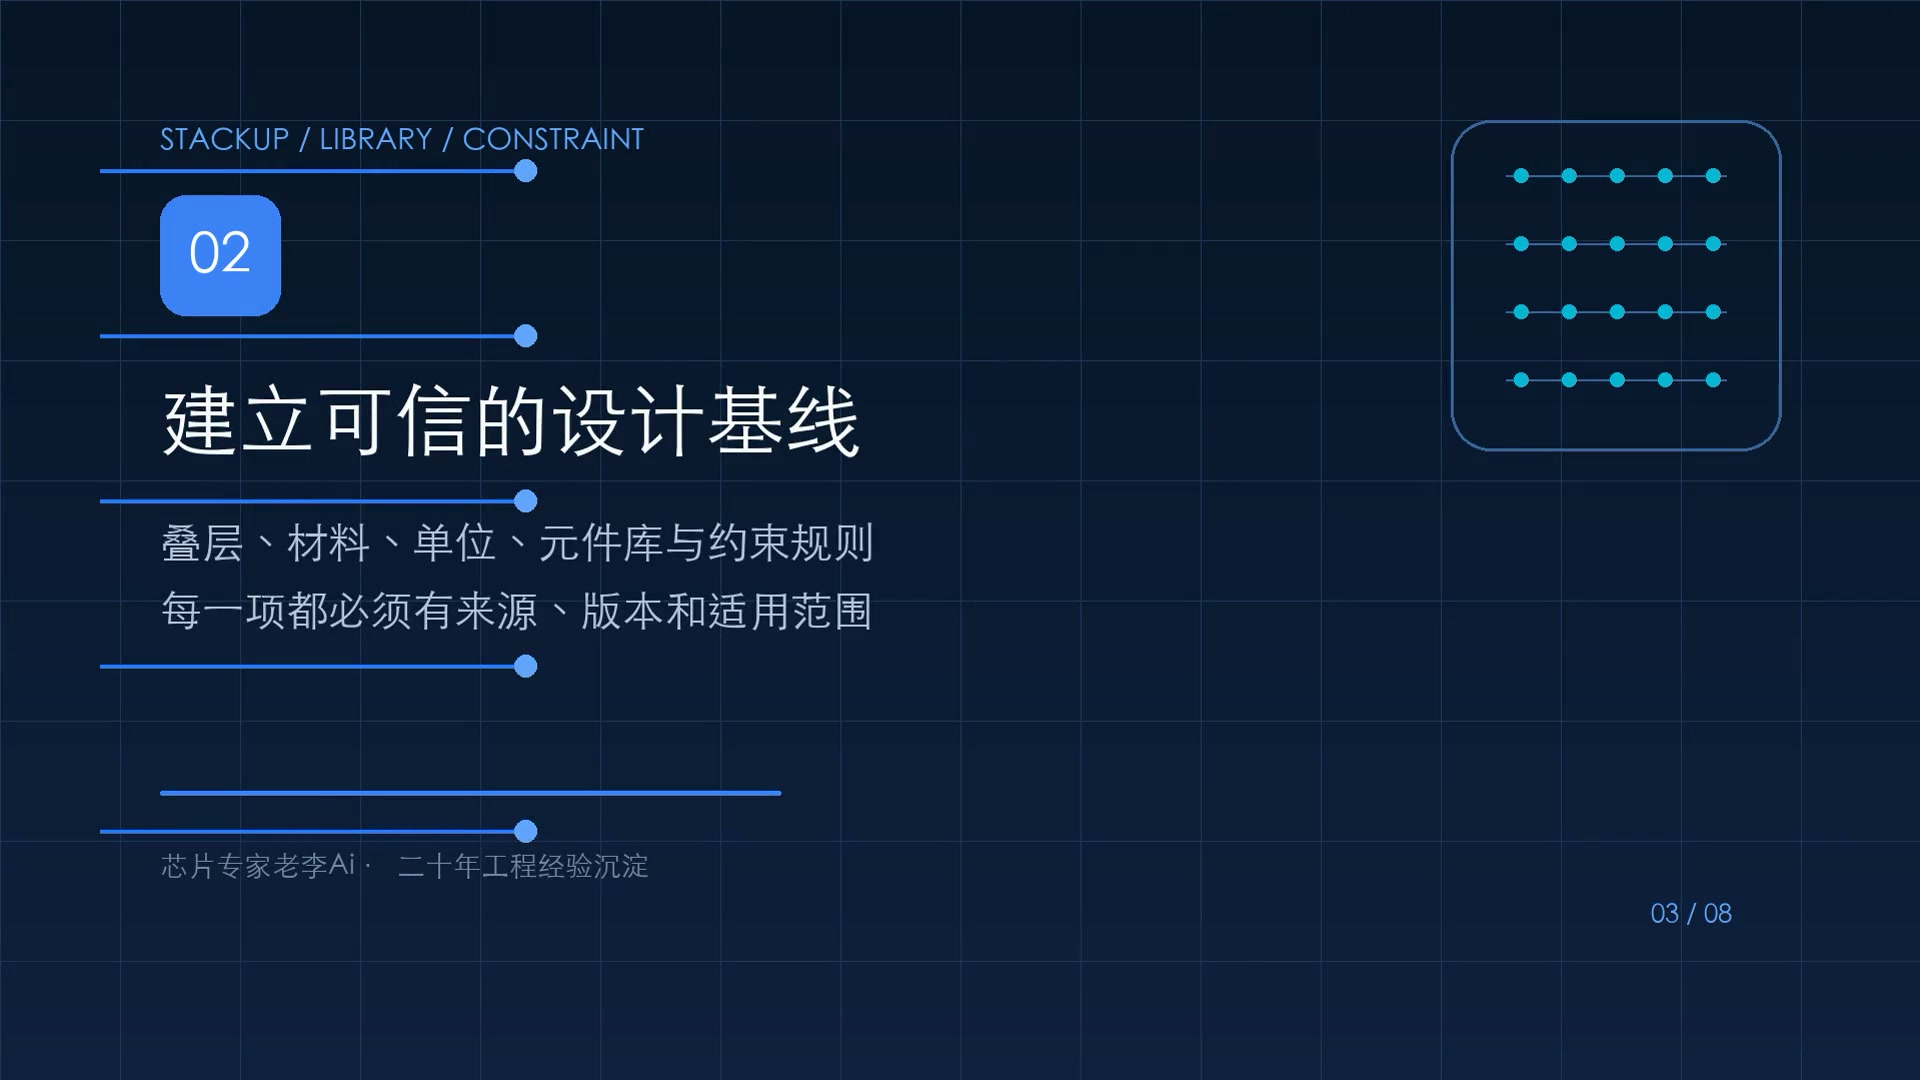
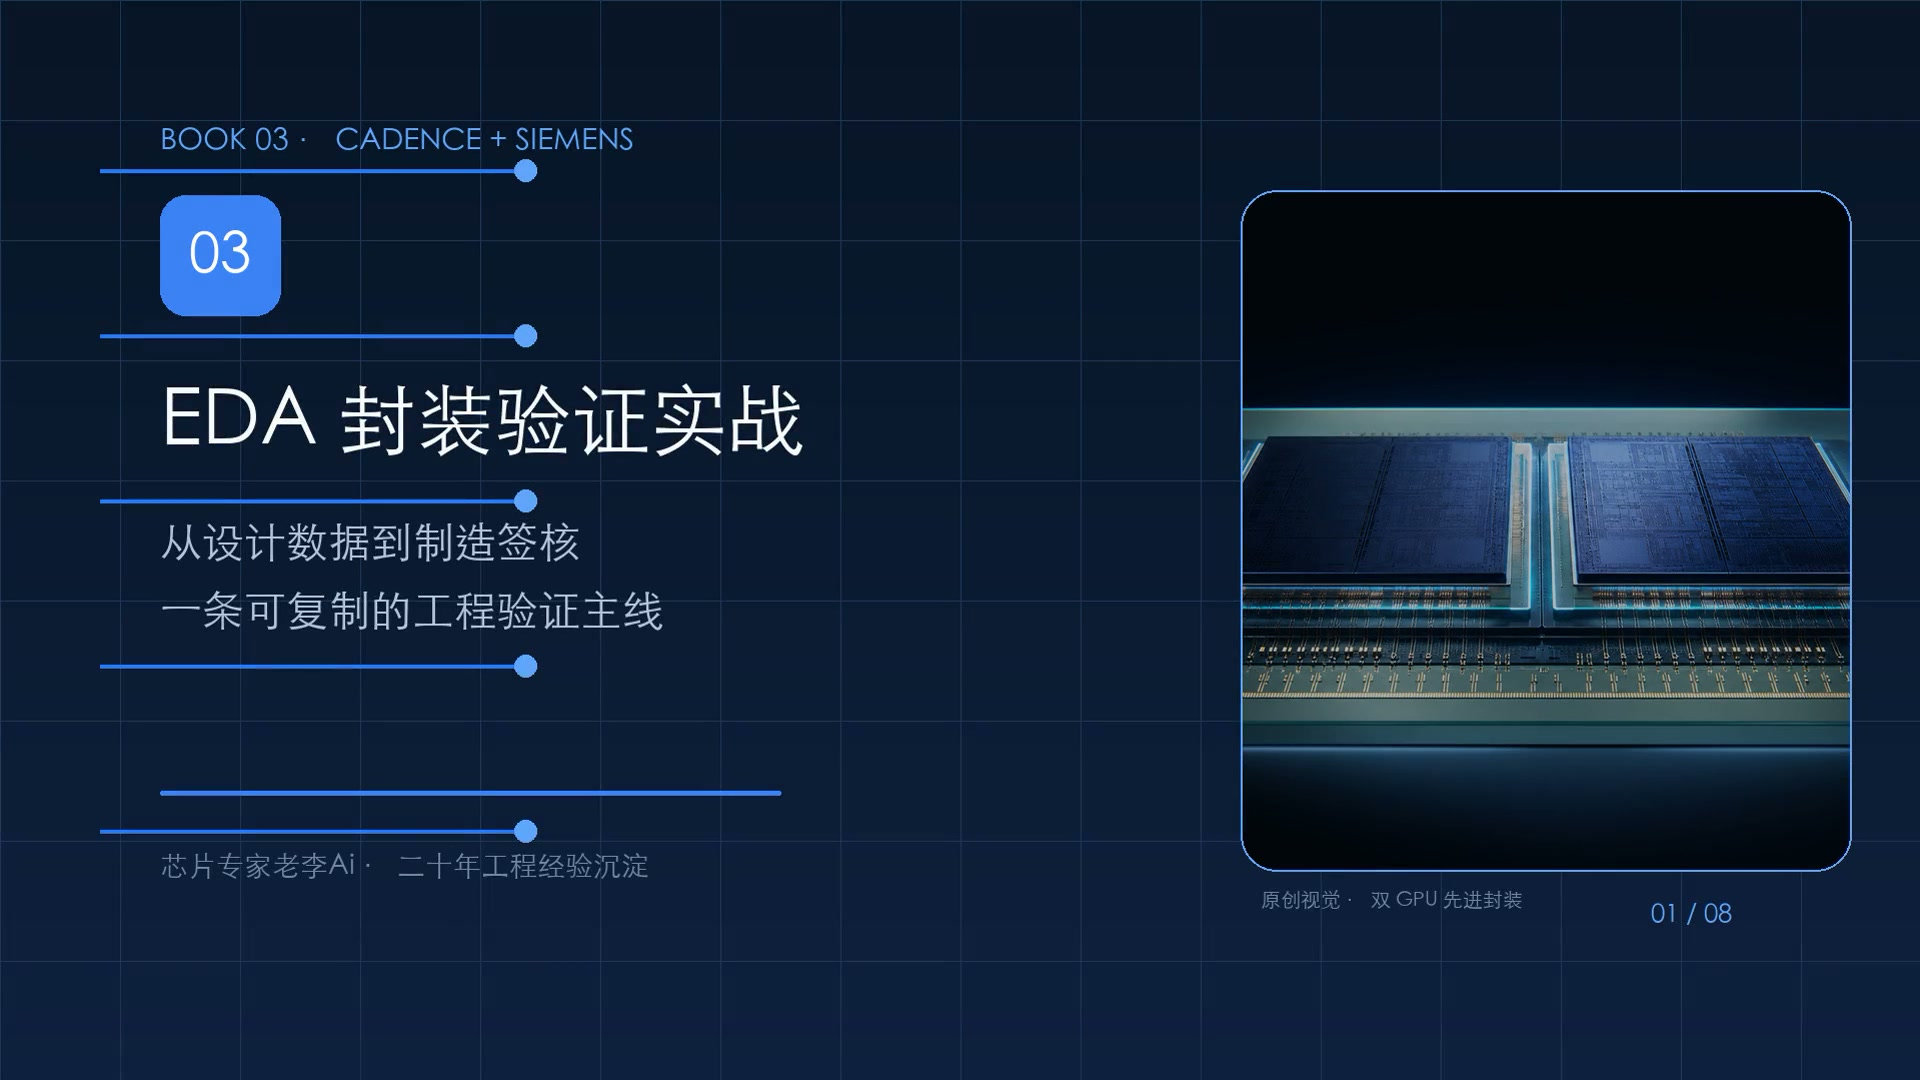
replace reference screenshots with original video art

diff --git a/scripts/build_eda_video.py b/scripts/build_eda_video.py
@@ -12,10 +12,13 @@ OUTPUT = ROOT / "videos" / "eda-book-intro.mp4"
 FONT = "/System/Library/Fonts/STHeiti Light.ttc"
 W, H = 1920, 1080
 PHOTO_MAP = {
-    1: ("silicon-wafers.jpg", "Silicon wafers · ArticCynda · CC0"),
-    3: ("wire-bonding.jpg", "IC wire bonding · Mister rf · CC BY-SA 4.0"),
-    4: ("wire-bonding.jpg", "IC wire bonding · Mister rf · CC BY-SA 4.0"),
-    6: ("macro-pcb.jpg", "Macro circuit board · Ingo Dierking · CC BY-SA 4.0"),
+    0: (ROOT / "images/video-generated/dual-gpu-package.png", "原创视觉 · 双 GPU 先进封装", "crop"),
+    1: (ROOT / "images/video-generated/application-ecosystem.png", "原创视觉 · 应用与制造路径", "crop"),
+    2: (ROOT / "images/video-generated/packaging-roadmap.png", "原创视觉 · 先进封装技术路线", "crop"),
+    3: (ROOT / "images/video-generated/chiplet-bonding.png", "原创视觉 · 芯粒键合与互连", "crop"),
+    4: (ROOT / "images/video-generated/chiplet-bonding.png", "原创视觉 · 微凸点与连通验证", "crop"),
+    5: (ROOT / "images/video-generated/hbm-stacks.png", "原创视觉 · HBM 三维堆叠", "crop"),
+    6: (BUILD / "assets/macro-pcb.jpg", "Macro circuit board · Ingo Dierking · CC BY-SA 4.0", "crop"),
 }
 
 SLIDES = [
@@ -63,14 +66,20 @@ def render_slide(index, data):
         draw.line((100, cy, 530, cy), fill=(38, 122, 246), width=4)
         draw.ellipse((514, cy - 11, 536, cy + 11), fill=(96, 165, 250))
     photo_info = PHOTO_MAP.get(index)
-    if photo_info and (BUILD / "assets" / photo_info[0]).exists():
-        source = Image.open(BUILD / "assets" / photo_info[0]).convert("RGB")
+    if photo_info and photo_info[0].exists():
+        source = Image.open(photo_info[0]).convert("RGB")
         target_w, target_h = 610, 680
-        scale = max(target_w / source.width, target_h / source.height)
-        source = source.resize((math.ceil(source.width * scale), math.ceil(source.height * scale)), Image.Resampling.LANCZOS)
-        left = (source.width - target_w) // 2
-        top = (source.height - target_h) // 2
-        source = source.crop((left, top, left + target_w, top + target_h))
+        if photo_info[2] == "contain":
+            scale = min(target_w / source.width, target_h / source.height)
+            resized = source.resize((math.ceil(source.width * scale), math.ceil(source.height * scale)), Image.Resampling.LANCZOS)
+            source = Image.new("RGB", (target_w, target_h), (3, 12, 24))
+            source.paste(resized, ((target_w - resized.width) // 2, (target_h - resized.height) // 2))
+        else:
+            scale = max(target_w / source.width, target_h / source.height)
+            source = source.resize((math.ceil(source.width * scale), math.ceil(source.height * scale)), Image.Resampling.LANCZOS)
+            left = (source.width - target_w) // 2
+            top = (source.height - target_h) // 2
+            source = source.crop((left, top, left + target_w, top + target_h))
         dark = Image.new("RGB", source.size, (4, 18, 35))
         source = Image.blend(source, dark, .30)
         mask = Image.new("L", source.size, 0)
@@ -123,7 +132,7 @@ def main():
 
     command = ["ffmpeg", "-y"]
     for index in range(len(SLIDES)):
-        command += ["-loop", "1", "-t", f"{slide_duration:.3f}", "-i", str(BUILD / f"slide-{index:02d}.png")]
+        command += ["-loop", "1", "-framerate", "30", "-t", f"{slide_duration:.3f}", "-i", str(BUILD / f"slide-{index:02d}.png")]
     command += ["-i", str(audio)]
 
     filters = []